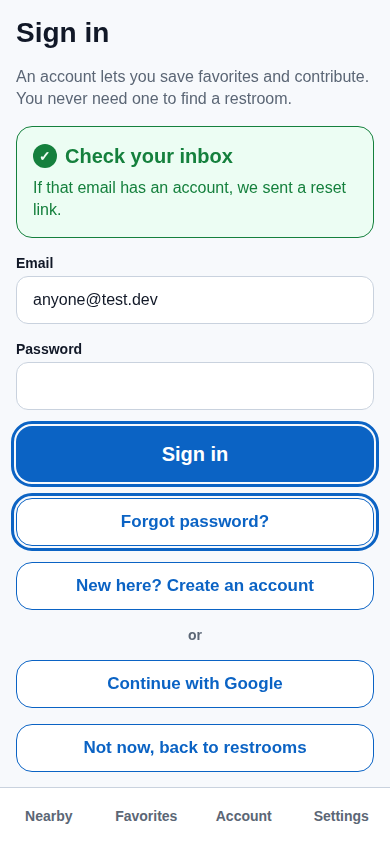
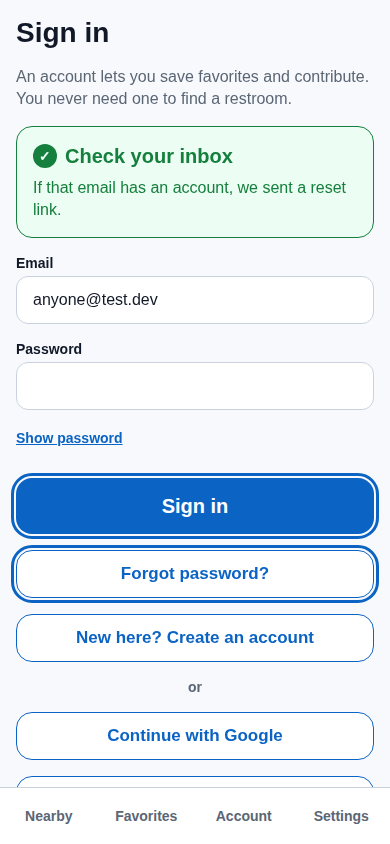
Add accessible Show/Hide Password to every password field (shared TextField)
Claude-Session: https://claude.ai/code/session_012KpRLBbmnELtEtEyhodUE7

diff --git a/apps/mobile/src/components/TextField.tsx b/apps/mobile/src/components/TextField.tsx
@@ -1,6 +1,7 @@
 import { colors, radii, spacing, touchTarget, typography } from '@open-stall/ui';
+import { useState } from 'react';
 import type { TextInputProps } from 'react-native';
-import { StyleSheet, Text, TextInput, View } from 'react-native';
+import { Pressable, StyleSheet, Text, TextInput, View } from 'react-native';
 import { useFocusStyle } from './focus';
 
 type Props = Pick<TextInputProps, 'value' | 'onChangeText' | 'keyboardType' | 'autoComplete' | 'textContentType' | 'secureTextEntry' | 'returnKeyType' | 'onSubmitEditing' | 'multiline' | 'maxLength' | 'autoCapitalize'> & {
@@ -10,14 +11,39 @@ type Props = Pick<TextInputProps, 'value' | 'onChangeText' | 'keyboardType' | 'a
   error?: string | null;
 };
 
-/** Labelled input: the label is also the accessibility label so screen readers announce it. */
-export function TextField({ label, hint, error, autoCapitalize = 'none', multiline, ...input }: Props) {
+/**
+ * Show/Hide control for a password field. Its own component so each field owns its own state and focus ring. It is a
+ * plain button: pressing it only flips visibility (no submit, no network, no validation) and the input stays mounted, so
+ * the typed text, caret and password-manager state are untouched. The visible text IS the accessible name and always
+ * names the action the button will perform ("Show password" while masked, "Hide password" while shown).
+ */
+function PasswordToggle({ revealed, onToggle }: { revealed: boolean; onToggle: () => void }) {
   const focus = useFocusStyle();
+  const name = revealed ? 'Hide password' : 'Show password';
+  return (
+    <Pressable
+      accessibilityRole="button"
+      accessibilityLabel={name}
+      onPress={onToggle}
+      {...focus.handlers}
+      style={({ pressed }) => [styles.toggle, pressed && styles.toggleDim, focus.style]}
+    >
+      <Text style={styles.toggleText}>{name}</Text>
+    </Pressable>
+  );
+}
+
+/** Labelled input: the label is also the accessibility label so screen readers announce it. */
+export function TextField({ label, hint, error, autoCapitalize = 'none', multiline, secureTextEntry, ...input }: Props) {
+  const focus = useFocusStyle();
+  // Masked by default, per field, never persisted: leaving the screen unmounts this state.
+  const [revealed, setRevealed] = useState(false);
   return (
     <View style={styles.wrap}>
       <Text style={styles.label}>{label}</Text>
       <TextInput
         {...input}
+        secureTextEntry={secureTextEntry ? !revealed : undefined}
         accessibilityLabel={label}
         accessibilityHint={error ? `${error}${hint ? ` ${hint}` : ''}` : hint}
         aria-invalid={error ? true : undefined}
@@ -28,6 +54,7 @@ export function TextField({ label, hint, error, autoCapitalize = 'none', multili
         {...focus.handlers}
         style={[styles.input, multiline && styles.multiline, error ? styles.invalid : null, focus.style]}
       />
+      {secureTextEntry ? <PasswordToggle revealed={revealed} onToggle={() => setRevealed((v) => !v)} /> : null}
       {error ? <Text accessibilityRole="alert" style={styles.error}>{error}</Text> : null}
       {hint ? <Text style={styles.hint}>{hint}</Text> : null}
     </View>
@@ -51,4 +78,7 @@ const styles = StyleSheet.create({
   error: { ...typography.label, color: colors.status.danger.fg },
   multiline: { minHeight: 96, paddingVertical: spacing.sm, textAlignVertical: 'top' },
   hint: { ...typography.label, fontWeight: '400', color: colors.textMuted },
+  toggle: { minHeight: touchTarget.min, alignSelf: 'flex-start', justifyContent: 'center', paddingHorizontal: spacing.sm, marginLeft: -spacing.sm, borderRadius: radii.md },
+  toggleDim: { opacity: 0.6 },
+  toggleText: { ...typography.label, color: colors.primaryStrong, textDecorationLine: 'underline' },
 });

diff --git a/apps/mobile/src/components/passwordFields.test.ts b/apps/mobile/src/components/passwordFields.test.ts
@@ -1,0 +1,28 @@
+import { readFileSync, readdirSync, statSync } from 'node:fs';
+import { join } from 'node:path';
+import { describe, expect, it } from 'vitest';
+
+// Every password-entry field in the app must come from the shared TextField, which owns the Show/Hide control. A raw
+// <TextInput secureTextEntry> anywhere else would be a password field without the control.
+const root = join(__dirname, '..');
+const files: string[] = [];
+const walk = (dir: string) => { for (const f of readdirSync(dir)) { const p = join(dir, f); if (statSync(p).isDirectory()) walk(p); else if (/\.tsx$/.test(f)) files.push(p); } };
+walk(root);
+
+describe('password fields', () => {
+  it('only the shared TextField renders a raw secure input', () => {
+    const offenders = files.filter((f) => /<TextInput[^>]*secureTextEntry/s.test(readFileSync(f, 'utf8')) && !f.endsWith('TextField.tsx'));
+    expect(offenders).toEqual([]);
+  });
+  it('the known password screens use TextField with secureTextEntry (sign-in/sign-up and reset)', () => {
+    const using = files.filter((f) => /<TextField[^>]*secureTextEntry/s.test(readFileSync(f, 'utf8'))).map((f) => f.slice(root.length + 1)).sort();
+    expect(using).toEqual(['app/auth/reset.tsx', 'app/auth/sign-in.tsx']);
+  });
+  it('the shared field never gives the toggle a value-bearing label and keeps the input mounted', () => {
+    const src = readFileSync(join(root, 'components/TextField.tsx'), 'utf8');
+    expect(src).toMatch(/Show password/);
+    expect(src).toMatch(/Hide password/);
+    expect(src).not.toMatch(/accessibilityLabel=\{[^}]*value/);
+    expect(src).not.toMatch(/key=\{[^}]*revealed/);
+  });
+});
